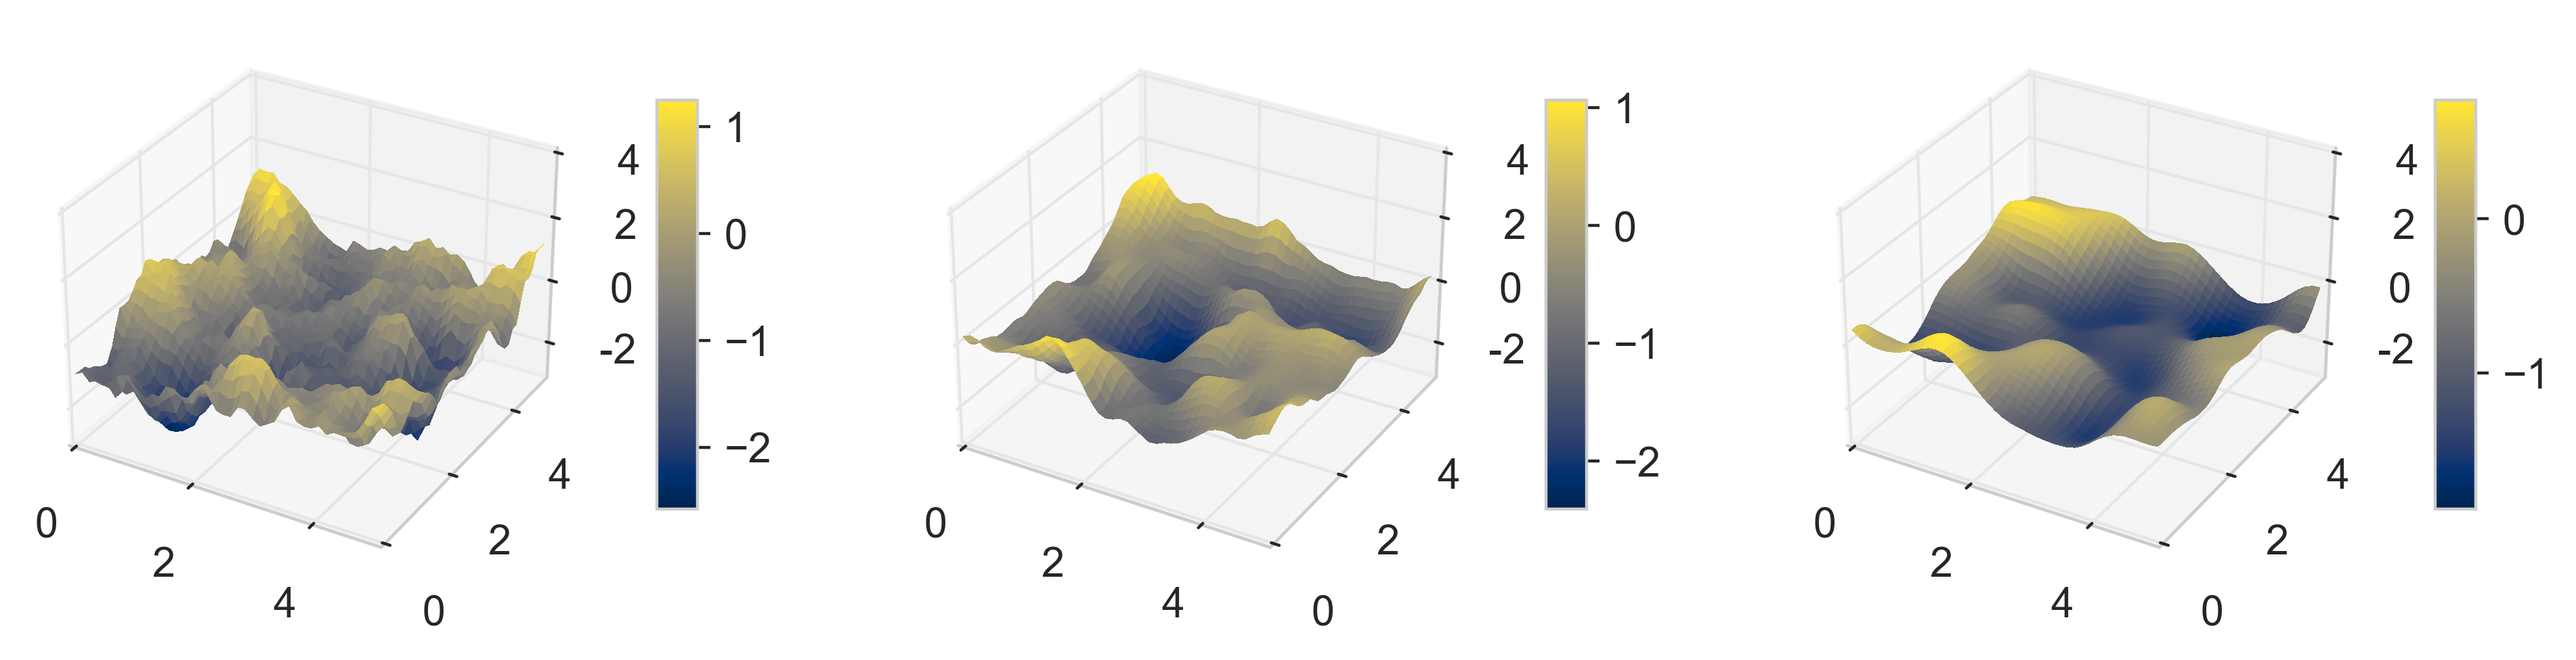
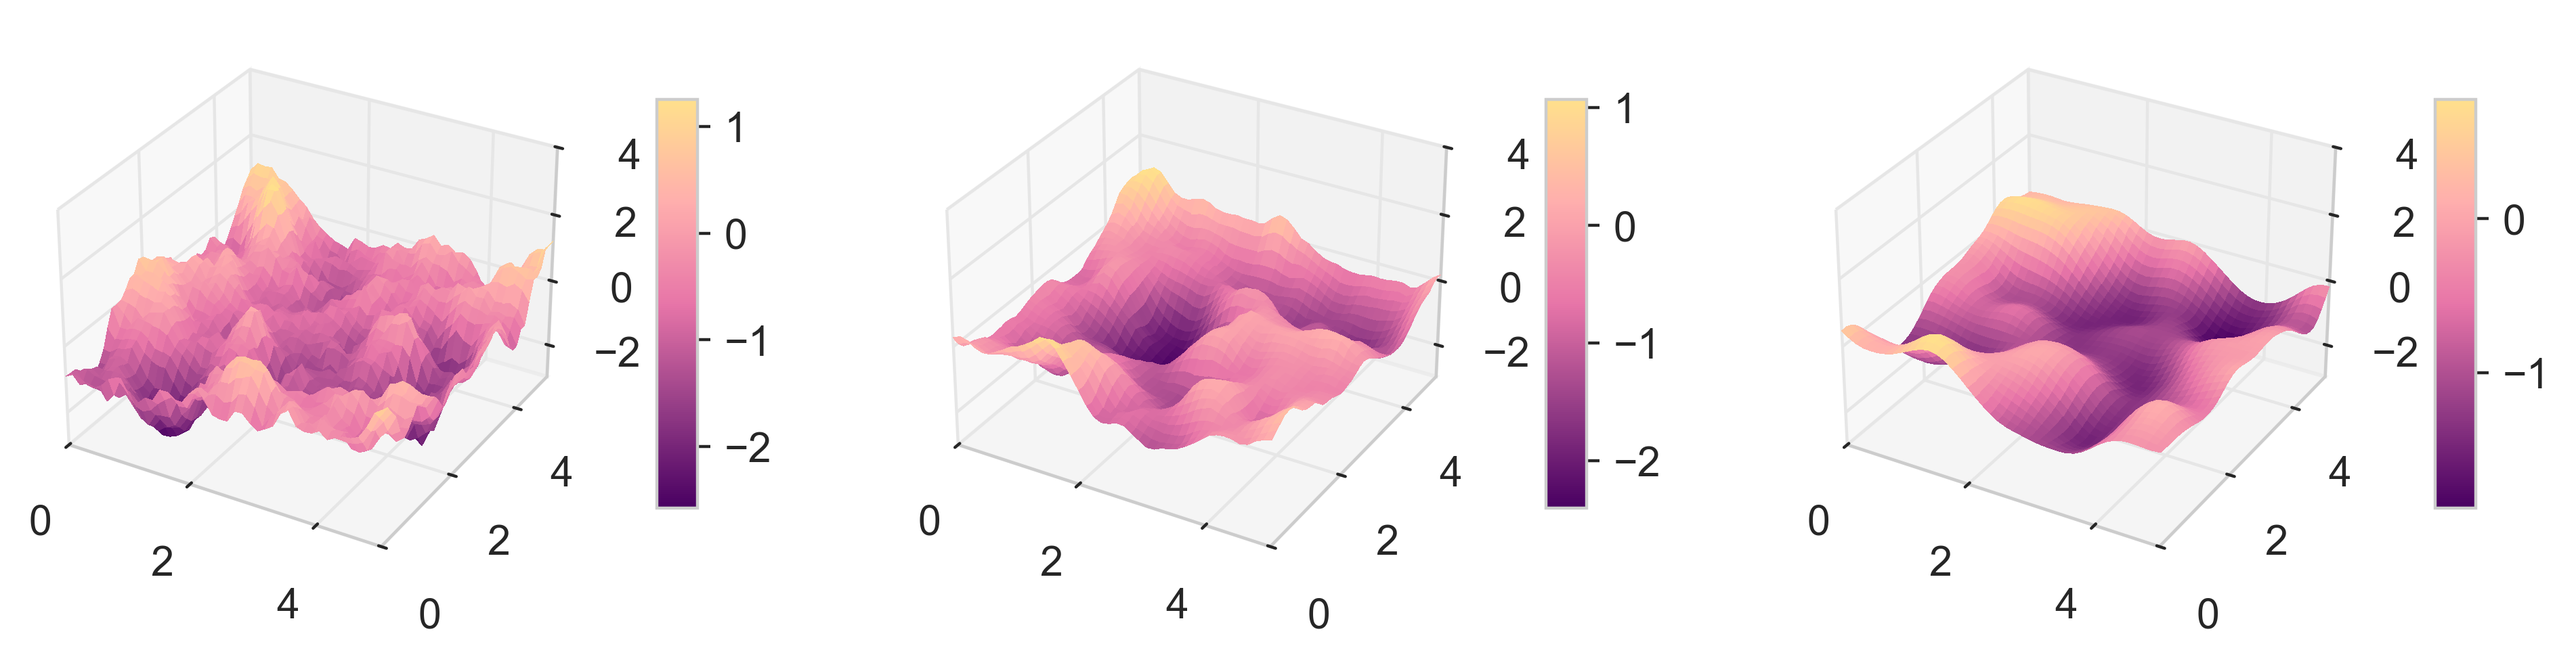
update colormap Figure 3

diff --git a/code/11-sim-matern.py b/code/11-sim-matern.py
@@ -12,7 +12,12 @@ from sklearn.gaussian_process.kernels import Matern
 
 
 
-
+# RdPu, but I change the end chroma to 100
+YlRdPu = ["#490062", "#963E87", "#E775A8", "#FFAEAD", "#FFE08C"]
+from matplotlib.colors import LinearSegmentedColormap
+clist = sns.color_palette(YlRdPu)
+my_cmap = LinearSegmentedColormap.from_list('my_cmap',clist,80)
+sns.set_palette(YlRdPu)
 
 
 
@@ -21,9 +26,7 @@ nu_array = np.array([1.0,2.0,4.0])
 n_samples = 5
 x = np.linspace(0, 6, 2001)
 X = x.reshape(-1, 1)
-# RdPu, but I change the end chroma to 100
-palette = ["#490062", "#963E87", "#E775A8", "#FFAEAD", "#FFE08C"]
-sns.set_palette(palette)
+
 
 
 fig, axs = plt.subplots(ncols=np.size(nu_array), sharex=False, sharey=False, figsize=(12, 4))
@@ -68,7 +71,7 @@ for (i,nu) in enumerate(nu_array):
     for n in np.arange(nx):
         zv[n,:] = np.squeeze(z_samples[n*nx:(n+1)*nx])
     
-    surf = ax.plot_surface(xv, yv, zv, cmap=cm.RdPu,linewidth=0, antialiased=False)
+    surf = ax.plot_surface(xv, yv, zv, cmap=my_cmap,linewidth=0, antialiased=False)
     ax.zaxis.set_major_locator(LinearLocator(6))
     ax.zaxis.set_major_formatter('{x:.0f}')
     ax.set_xlim([0,5])
